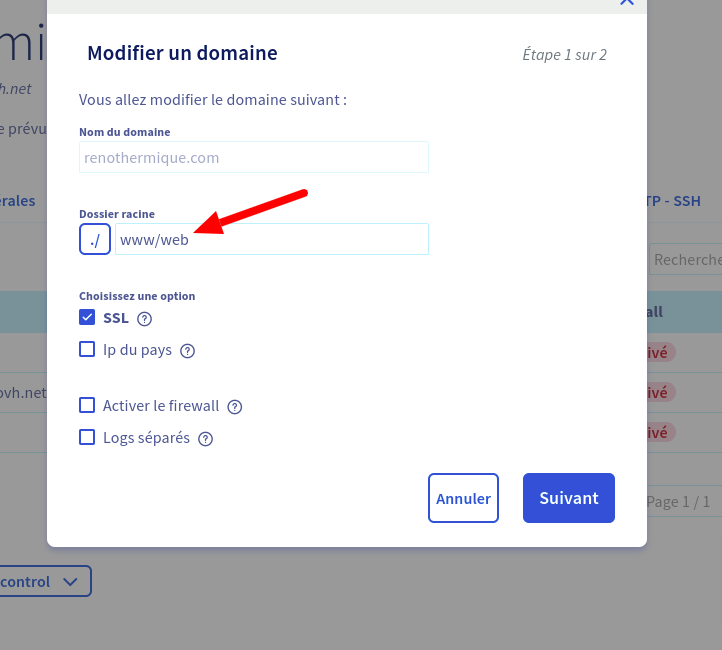
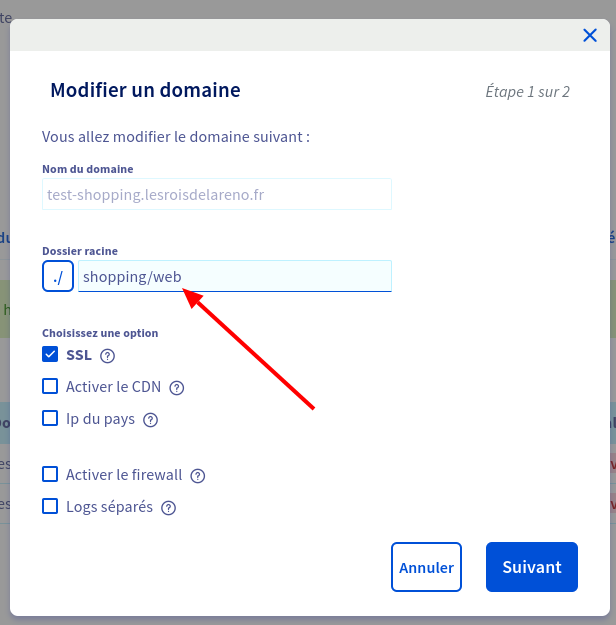
maj

diff --git a/src/docs/export-import/installer-votre-site.md b/src/docs/export-import/installer-votre-site.md
@@ -35,11 +35,18 @@ Vous devez patienter quelques minutes avant que cela ne prenne effet. <br>
 
 - **2/3 Modification du dossier racine** : Cette etape permet de dire au serveur au se trouve le fichier index.php. :)
   Nous devons modifier le domaine et le premier sous domaine (www.); ainsi que la racine.
+
   ![image](../../assets/images/web-cloud-4.png)
   Modification du domaine principal : Cliquez sur les 3 points dans le cercle, ensuite sur "modifier le domaine".
   ![image](../../assets/images/web-cloud-5.png)
-  Ensuite : Ajouter "/web" sur le champs "Dossier racine" :
+  Ensuite, dans le champ racine remplacer **"www"** par le nom ou l'id de votre site suivis de web.
+  ex: Pour un site de shopping par exemple nous aurons **shopping/web**. Si vous n'avez pas encore mis en place la structure de fichier, le repertoire **shopping/web** sera automatiquement créé.
+    <div class="alert alert-primary border-info border-right-0 border-top-0 border-bottom-0" role="alert">
+     <span class="font-weight-bold text-decoration-underline">NOTE:</span> Si vous souhaitez installer plusieurs site sur le même hebergement vous pouvez ajouter un reportoire à côte de la racine.
+     Par exemple si vous ajoutez un site de shopping vous pourrez le mettre dans le repertoire **batiment/web** à la même profondeur que le racine et remplacer **"www"** dans les étapes de configurations du chemin vers votre site par **batiment/web**
+  </div>
   ![image](../../assets/images/web-cloud-6.png)
+
   Ensuite : Cliquez sur suivant et sur "valider".
   NB: Reprennez la meme proceduire pour le premier sous domaine, i.e celui commencant par "www." <br>
   à la fin vous devez optenir ceci :
